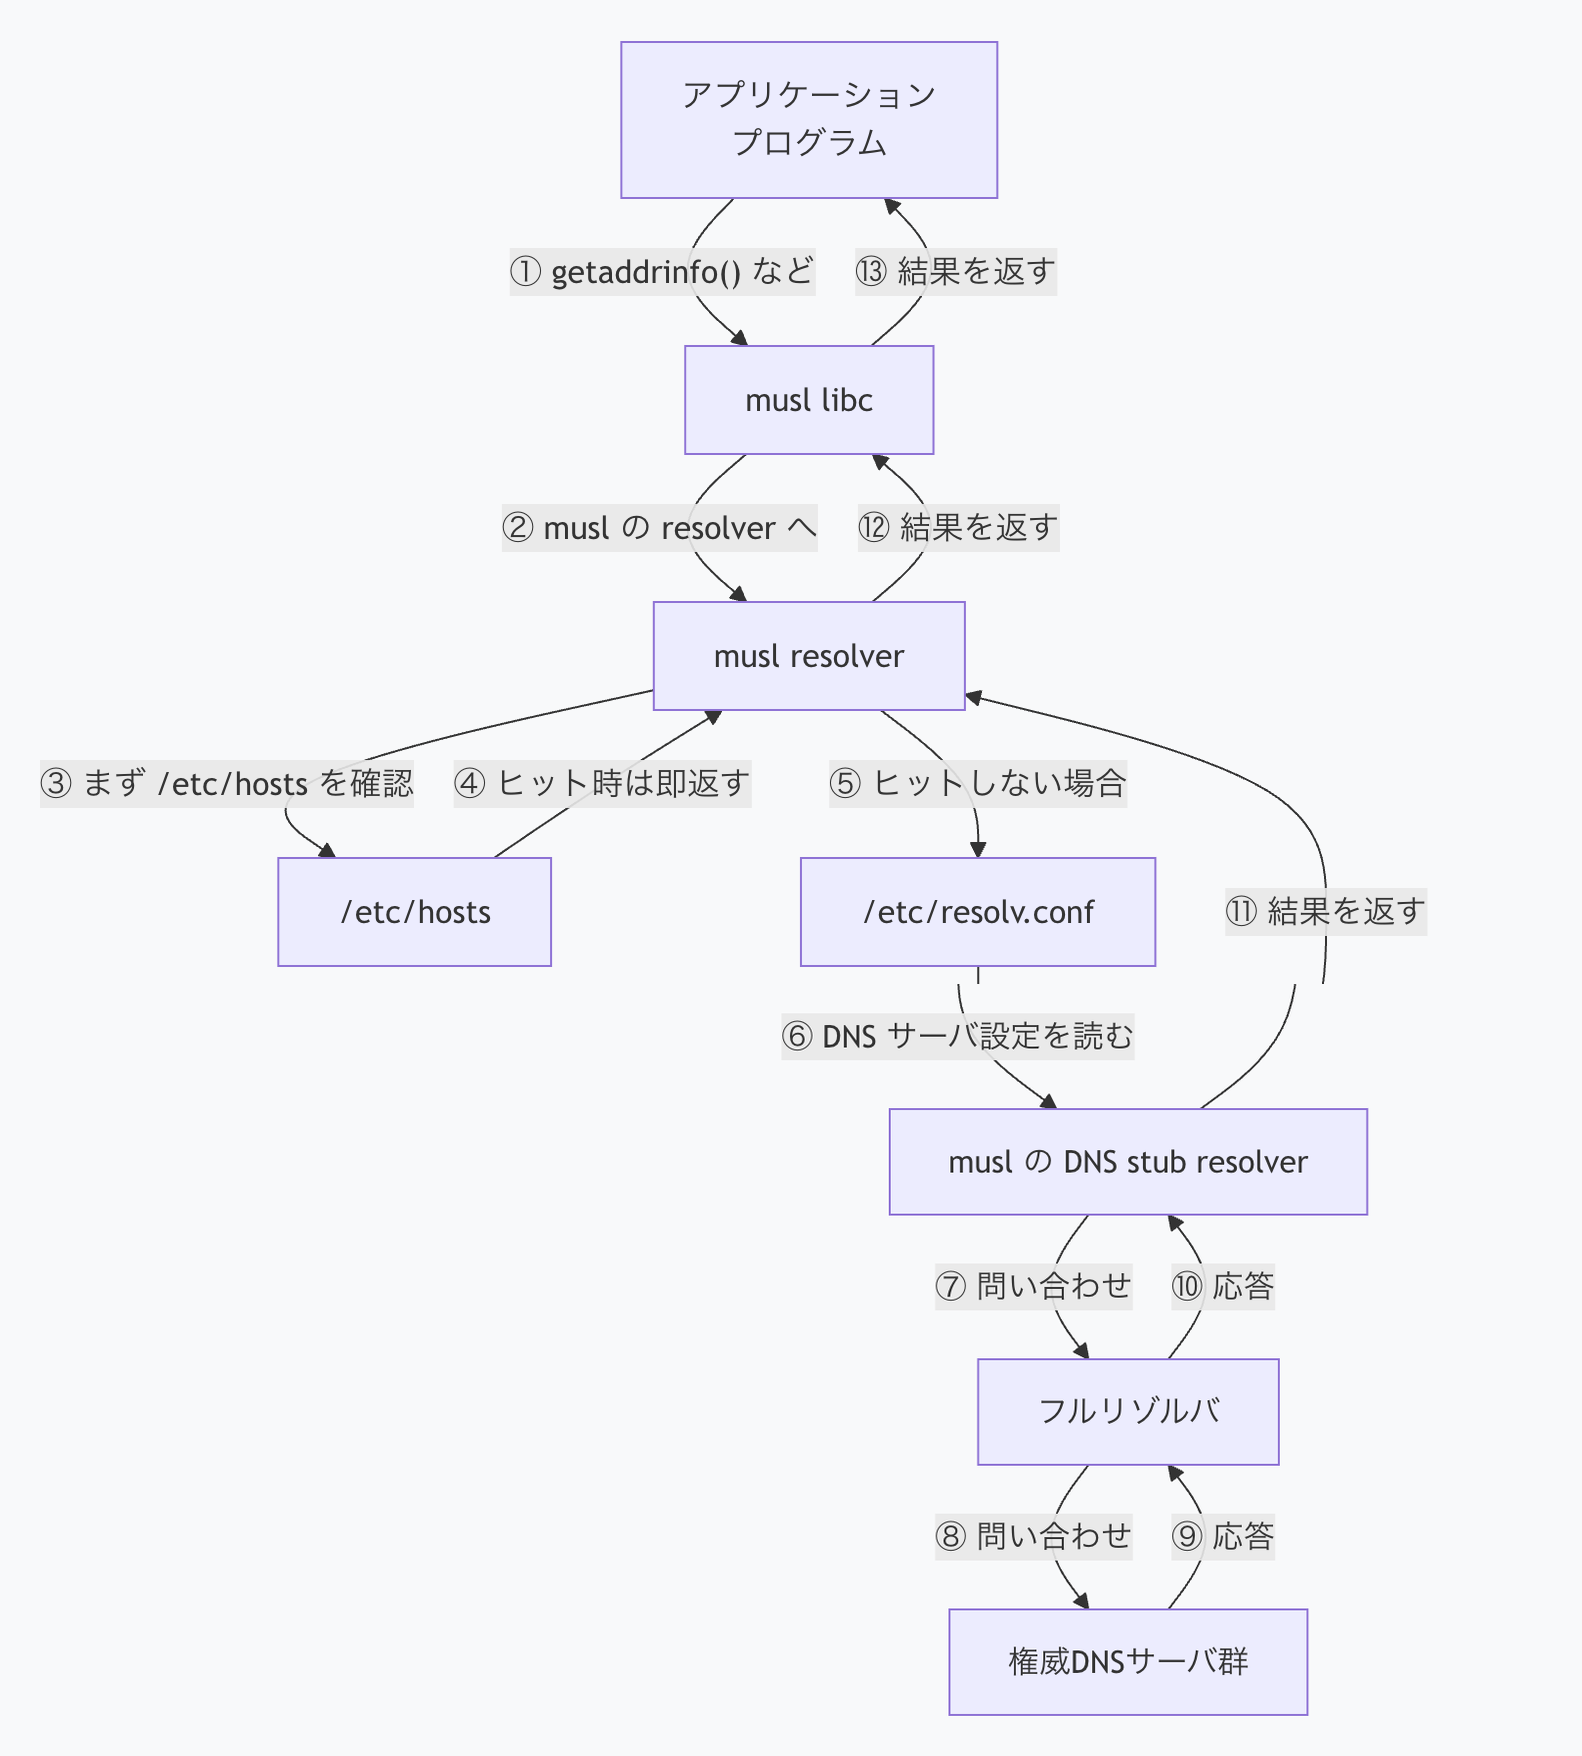
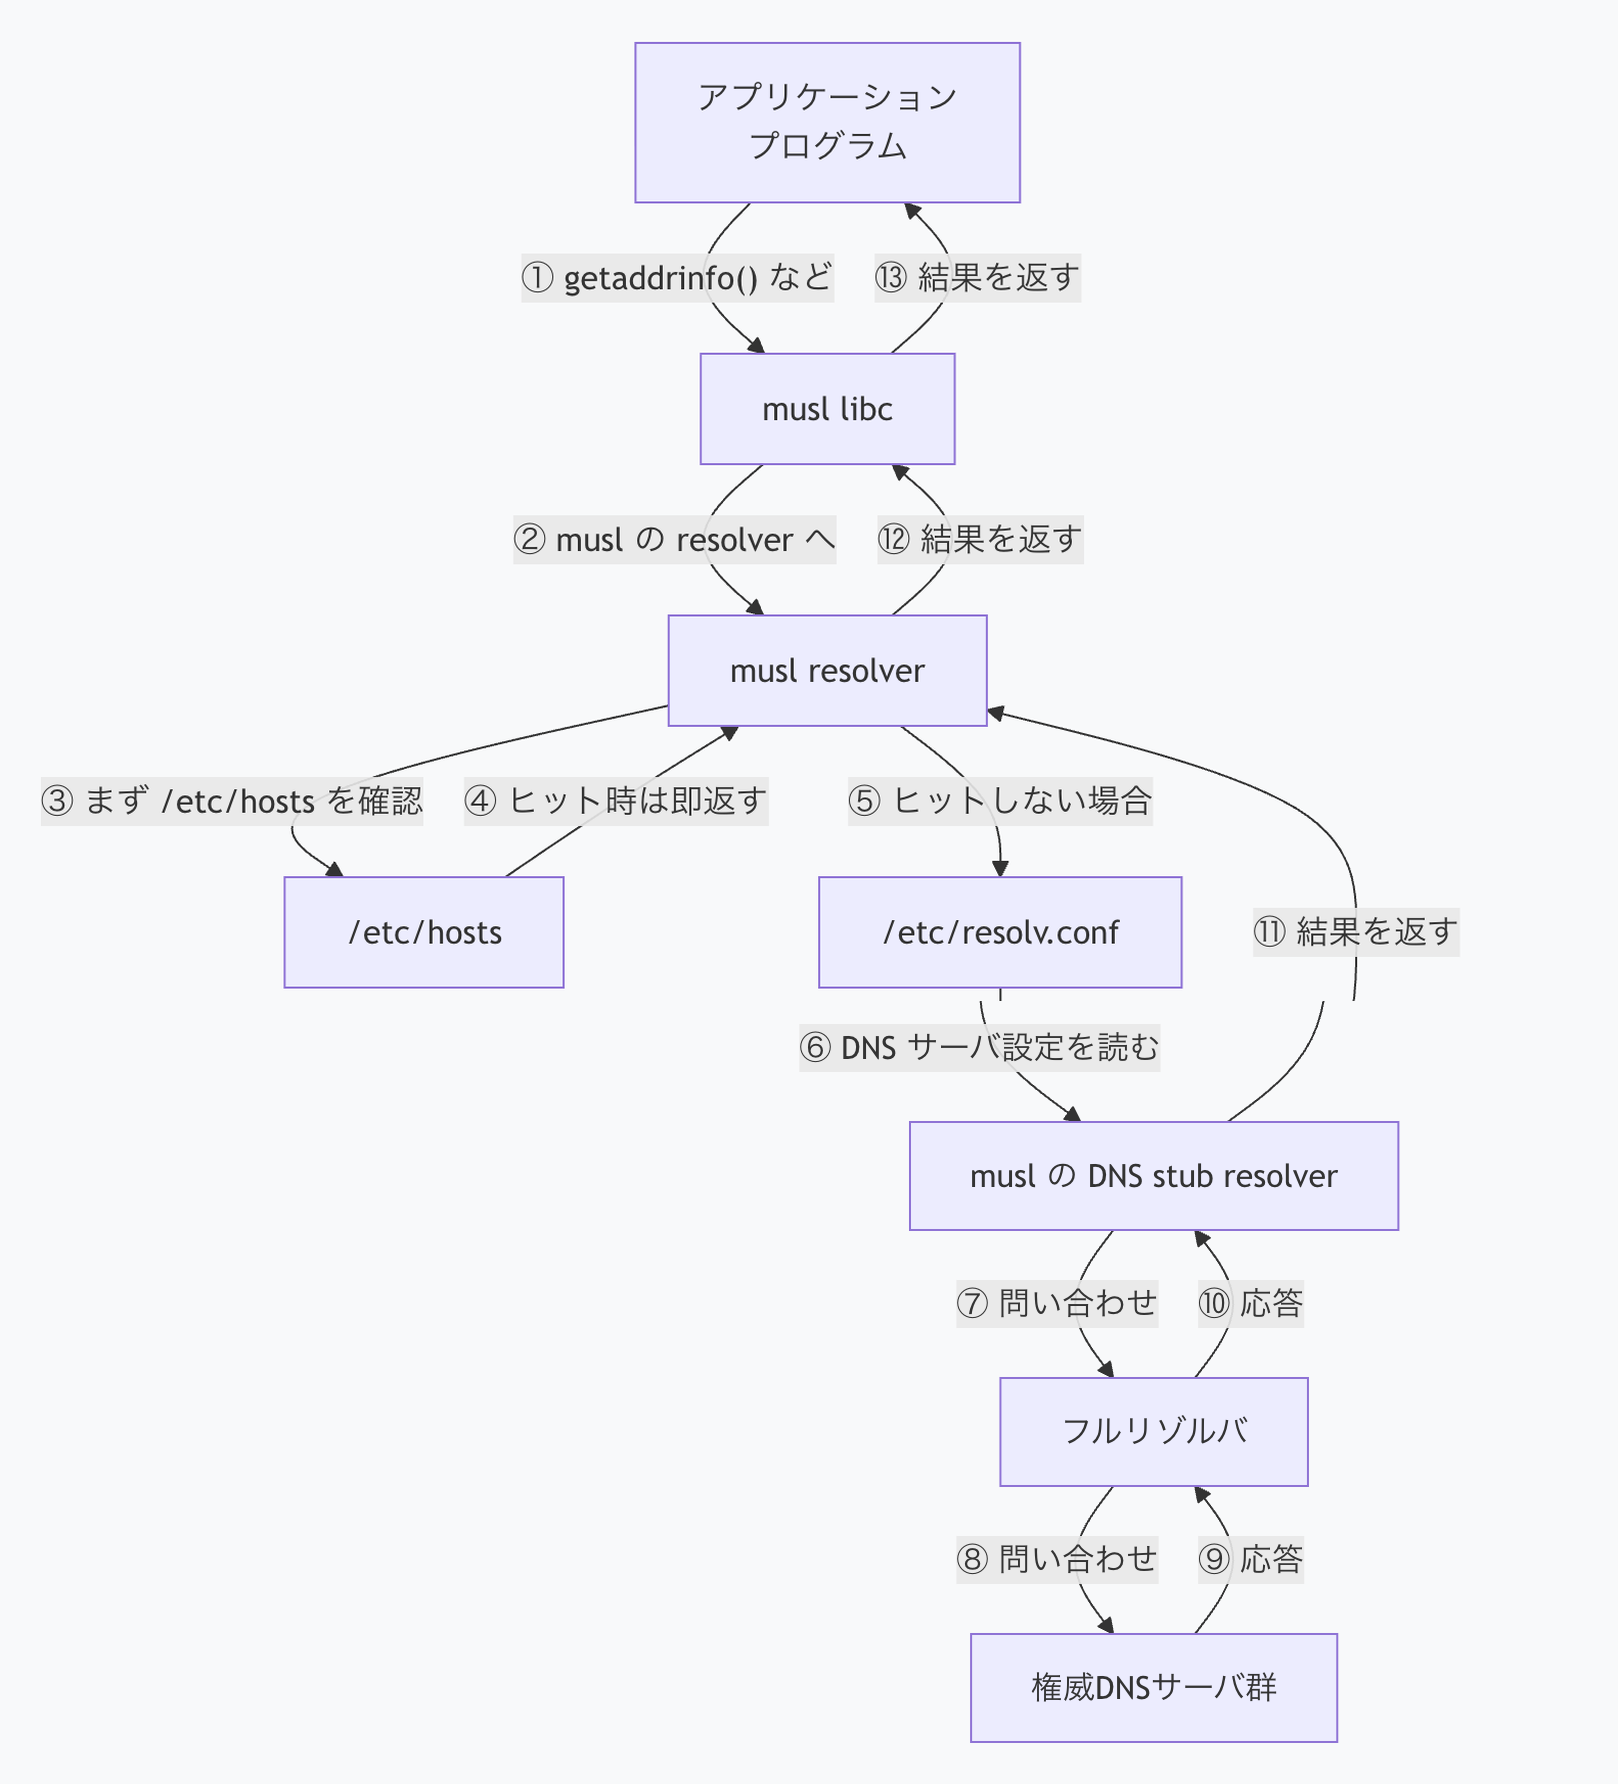
Fix a51-fig1: seamless join + limit display width to 480px

diff --git a/index.html b/index.html
@@ -5546,7 +5546,7 @@ $ nslookup 172.2_.___.11　　　　　　　　　　　　　 ※ LAN上の IP
 <p>　5章の名前解決の説明では、簡単なモデルを用いて解説したが、より詳細なフローがわかった方が理解が深まる。 そこで、本演習で利用している Alpine Linux の名前解決の詳細を図1に示す。 また、図に対する解説を表1に示す。</p>
 
 <h2 id="fig1-musl">【図1. Linux における musl ライブラリを利用した名前解決】</h2>
-<div class="fig-wrap"><img src="images/a51-fig1.png" alt="musllibcを利用した名前解決フロー図" class="fig-img"></div>
+<div class="fig-wrap"><img src="images/a51-fig1.png" alt="musllibcを利用した名前解決フロー図" class="fig-img" style="max-width:480px;"></div>
 
 <h2 id="tbl1-musl">【表1. musl ライブラリを利用した名前解決の流れ】</h2>
 <table>